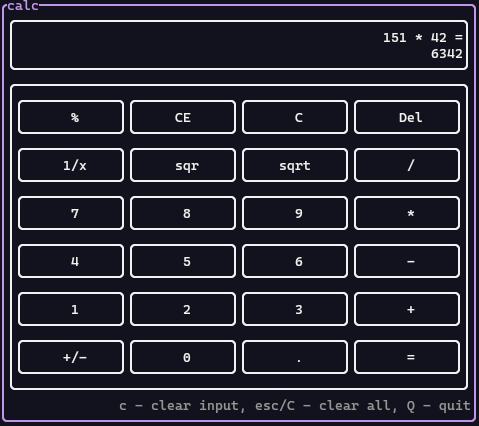
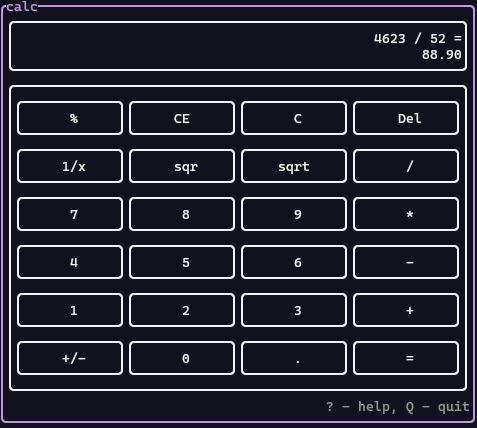
docs: readme update

diff --git a/README.md b/README.md
@@ -1,6 +1,6 @@
 # Calc in terminal
 
-Simple calc tui written on rust
+Simple calc tui written in Rust
 
 ![Screenshot 1](img/Screenshot1.png)
 
@@ -15,9 +15,13 @@ cargo install caltui
 ## Usage
 
 ```cmd
+caltui
+```
+
+## Usage options
+
+```cmd
 Options:
   -a, --altscreen  Run in altscreen
   -b, --big        Run with big text
-  -h, --help       Print help
-  -V, --version    Print version
 ```
